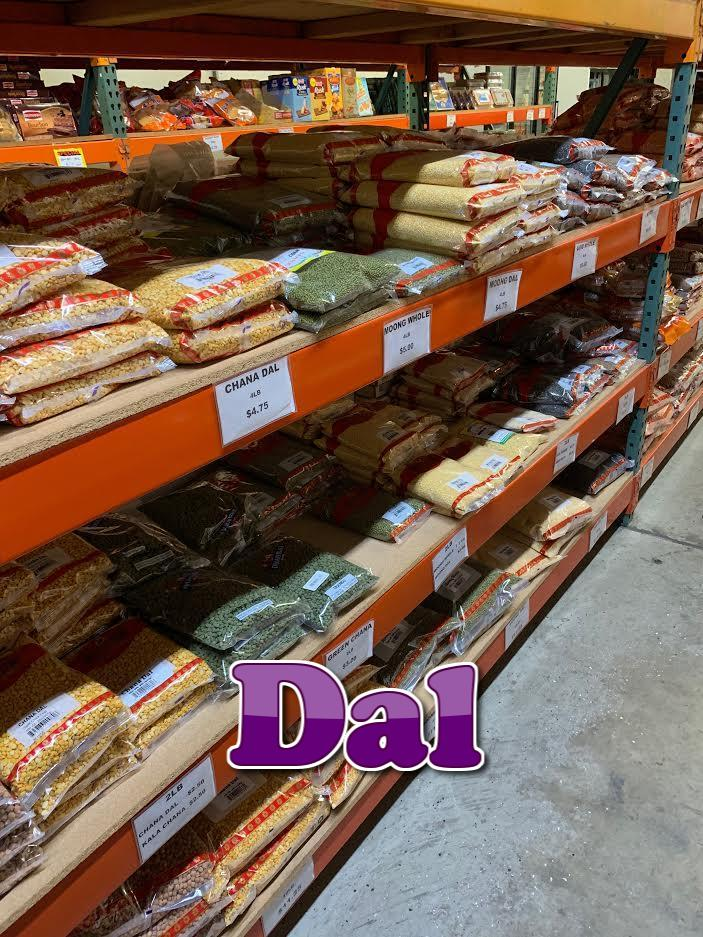
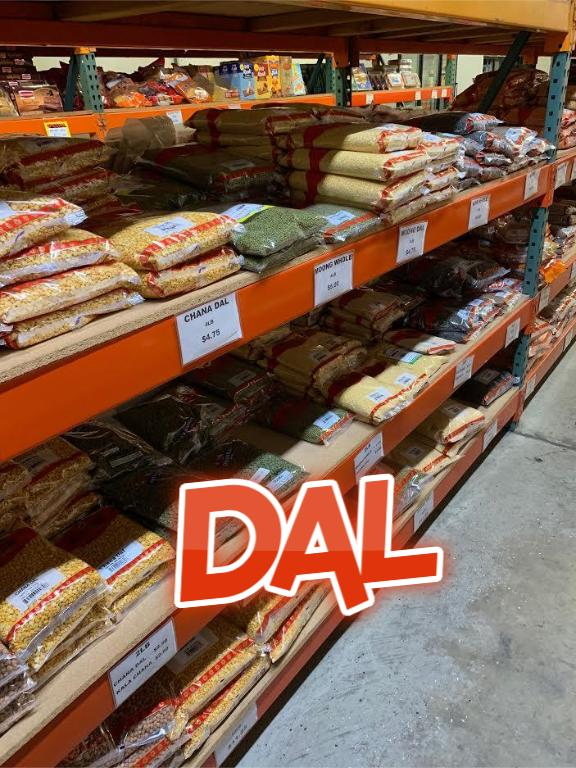
Image font change About us rewrite Removed e-mail Animation change

diff --git a/about.html b/about.html
@@ -88,8 +88,8 @@
       <hr />
       <p>
         The Golden Spice was founded in 1999 by Drib Pal Khosla. It was created
-        to provide Indian products for people in America. The Golden Spice is a
-        family owned and operated store in Livingston, California.
+        to provide Indian products in America. The Golden Spice is a family
+        owned and operated store in Livingston, California.
       </p>
     </div>
 

diff --git a/site.js b/site.js
@@ -48,4 +48,4 @@ const tl = new TimelineMax();
 tl.fromTo(nav, 1.5, { x: "1500px" }, { x: "0px" })
   .fromTo(hours, 1.5, { x: "1000px" }, { x: "0px" }, "-=1.5")
   .fromTo(body, 1, { opacity: "0.8" }, { opacity: "1" })
-  .fromTo(carousel, 1.5, { maxWidth: "50px" }, { maxWidth: "100%" }, "-=2.5");
+  .fromTo(carousel, 1.5, { maxWidth: "5%" }, { maxWidth: "100%" }, "-=2.5");

diff --git a/contact.html b/contact.html
@@ -75,7 +75,6 @@
     <div class="contact-content">
       <br>
       <p><u>Address</u>: 2275 Walnut Ave, Livingston, CA 95334</p>
-        <p><u>E-mail</u>: ...@gmail.com</p>
         <p><u>Phone Number</u>: (209) 394-8248</p>
         <p>
           <hr style="border: 1px solid black">
